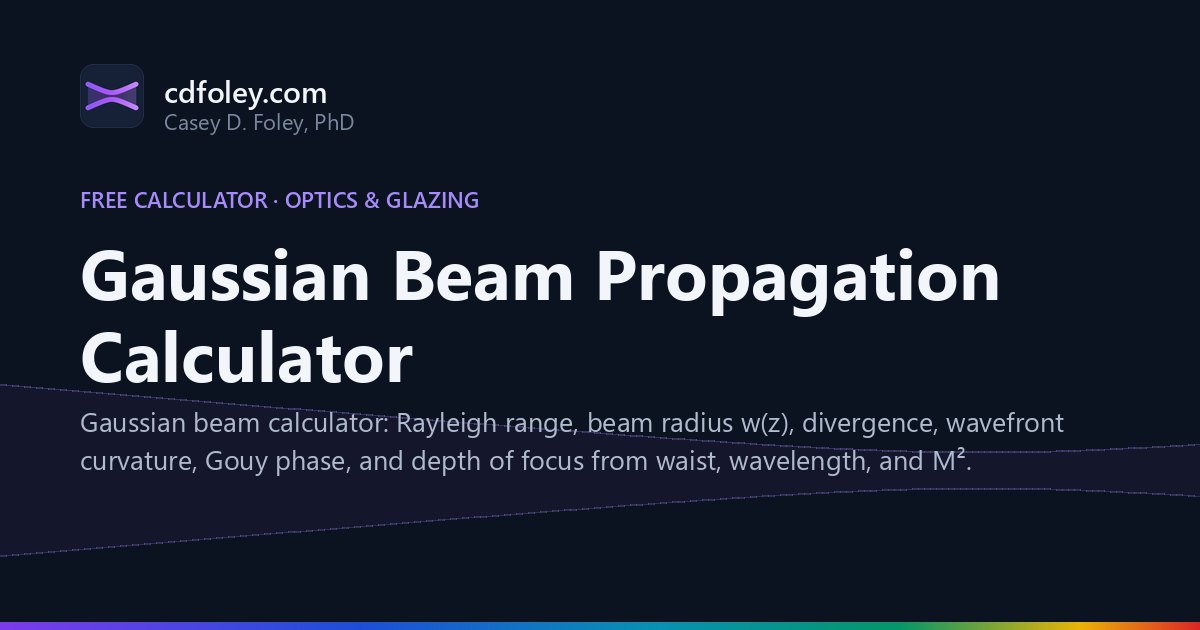
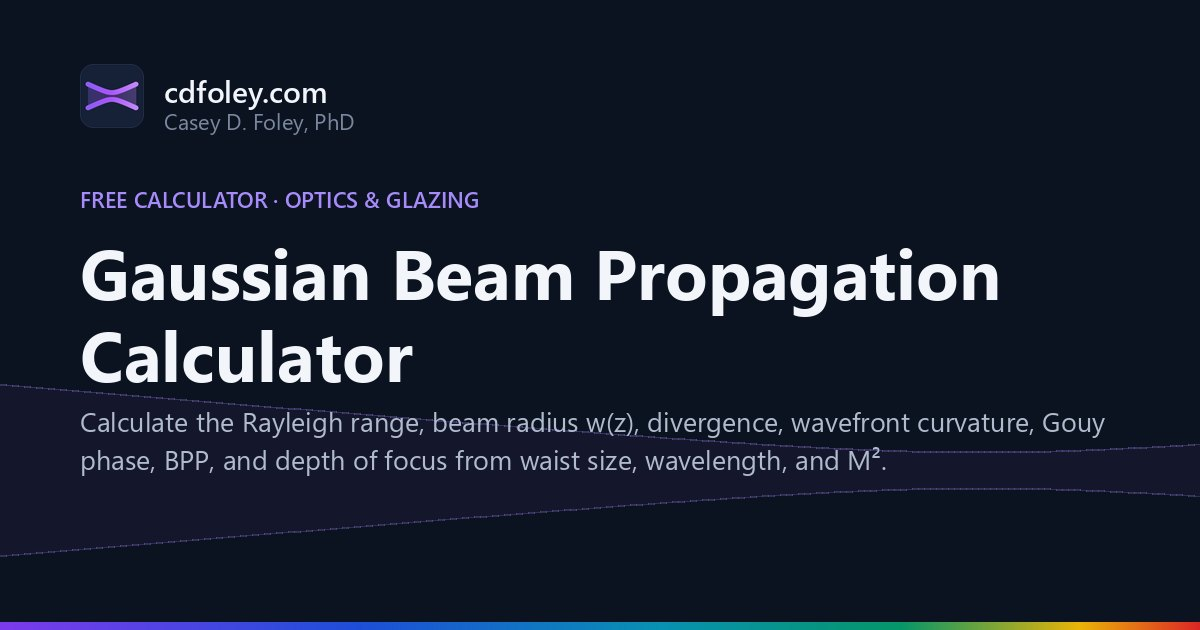
SEO and QA tooling: regenerate structured data, sitemap and share cards; flag unrendered math
seo.py: exclude beta pages, unescape entities in descriptions, richer Article/ProfilePage/VideoGame data.
resume_public.py: keep the seo.py-owned JSON-LD when rebuilding the public resume.
qa-pages.sh: report raw TeX left in a page (math that never rendered).

Claude-Session: https://claude.ai/code/session_01GorshBwyzHcofXTeHztGA6

Changed region(s): [[0.0617, 0.6635, 0.925, 0.754]]

diff --git a/_scripts/seo.py b/_scripts/seo.py
@@ -5,7 +5,8 @@
 1. Writes JSON-LD (WebApplication + BreadcrumbList) into every tool page and an
    ItemList into the tools and learn hubs, from the TOOLS/ARTICLES registries
    in assets/js/site.js.
-2. Regenerates sitemap.xml with lastmod dates from git (today for uncommitted edits).
+2. Regenerates sitemap.xml with lastmod dates from git (today for uncommitted edits). Private and tooling
+   folders, the unlisted beta/ section, and pages marked noindex are left out.
 3. Reports pages missing a title, description, canonical URL, or Open Graph tags.
 """
 import datetime, html, json, os, re, subprocess
@@ -36,7 +37,8 @@ for f in ['index.html', 'tools/index.html', 'learn/index.html']:
 
 def put_ld(path, data):
     s = open(path, encoding='utf-8').read()
-    block = '<script type="application/ld+json" id="ld-page">\n' + json.dumps(data, ensure_ascii=False, indent=1) + '\n</script>\n'
+    ld = json.dumps(data, ensure_ascii=False, indent=1).replace('</', '<\\/')    # text can never close the <script> early
+    block = '<script type="application/ld+json" id="ld-page">\n' + ld + '\n</script>\n'
     s, n = re.subn(r'<script type="application/ld\+json" id="ld-page">.*?</script>\n', lambda m: block, s, flags=re.S)
     if not n:
         s = s.replace('</head>', block + '</head>', 1)
@@ -44,22 +46,30 @@ def put_ld(path, data):
 
 def modified(f):
     """When a page's content last changed, as an ISO 8601 date-time with time zone (what Google expects).
-    Edits that only touch the date fields themselves are ignored, so re-running this script doesn't move the date."""
+    Edits that only touch the fields this script writes (dates, article image) are ignored, so re-running it doesn't move the date."""
     def real(diff):
-        return any(l[:1] in '+-' and not l.startswith(('+++', '---')) and not re.search(r'"date(Modified|Published)"', l)
+        return any(l[:1] in '+-' and not l.startswith(('+++', '---')) and not re.search(r'"(date(Modified|Published)|image)"', l)
                    for l in diff.splitlines())
     now = datetime.datetime.now().astimezone().isoformat(timespec='seconds')
-    if real(subprocess.run(['git', 'diff', 'HEAD', '-U0', '--', f], capture_output=True, text=True).stdout):
+    # A diff is the page's own UTF-8 text. With text=True, Windows decodes it as cp1252, which can't map some of its bytes
+    # (⁻ is E2 81 BB), and then .stdout comes back as None, so decode it as UTF-8.
+    if real(subprocess.run(['git', 'diff', 'HEAD', '-U0', '--', f], capture_output=True, encoding='utf-8', errors='replace').stdout):
         return now                                             # uncommitted content edits
     for line in subprocess.run(['git', 'log', '--format=%H %cI', '--', f], capture_output=True, text=True).stdout.splitlines():
         sha, when = line.split()
-        if real(subprocess.run(['git', 'show', '-U0', '--format=', sha, '--', f], capture_output=True, text=True).stdout):
+        if real(subprocess.run(['git', 'show', '-U0', '--format=', sha, '--', f], capture_output=True, encoding='utf-8', errors='replace').stdout):
             return when
     return now
 
+def created(f):
+    """When a page was first committed, as an ISO 8601 date-time with time zone (now, if it isn't committed yet)."""
+    added = subprocess.run(['git', 'log', '--diff-filter=A', '--format=%cI', '--', f], capture_output=True, text=True).stdout.split()
+    return added[-1] if added else datetime.datetime.now().astimezone().isoformat(timespec='seconds')
+
 def meta(s, name, attr='name'):
+    """A meta tag's content as plain text: JSON-LD is not HTML, so entities such as &#x27; must be decoded here."""
     m = re.search(r'<meta ' + attr + r'="' + re.escape(name) + r'" content="([^"]*)"', s)
-    return m.group(1) if m else ''
+    return html.unescape(m.group(1)) if m else ''
 
 def crumbs(items):
     return {'@type': 'BreadcrumbList', 'itemListElement': [
@@ -94,14 +104,15 @@ put_ld('learn/index.html', {'@context': 'https://schema.org', '@type': 'Collecti
 hub = open('games/index.html', encoding='utf-8').read()
 GENRE = {'pinball': 'Pinball', 'brick-breaker': 'Arcade', 'space-rocks': 'Shooter', 'paddle-ball': 'Sports', 'snake': 'Arcade',
          '2048': 'Puzzle', 'sudoku': 'Puzzle', 'minesweeper': 'Puzzle', 'solitaire': 'Card game', 'hangman': 'Word game'}
-GAMES = [dict(slug=m.group(1), title=m.group(2)) for m in re.finditer(
+PLAYMODE = {'paddle-ball': ['SinglePlayer', 'MultiPlayer']}     # vs. the computer, or two players on one device
+GAMES = [dict(slug=m.group(1), title=html.unescape(m.group(2))) for m in re.finditer(
     r'<a class="card tool-card game-card" href="/games/([^/]+)/">.*?<h3>(.*?)</h3>', hub, re.S)]
 for g in GAMES:
     path = 'games/%s/index.html' % g['slug']
     s = open(path, encoding='utf-8').read()
     put_ld(path, {'@context': 'https://schema.org', '@graph': [
         {'@type': 'VideoGame', 'name': g['title'], 'url': '%s/games/%s/' % (SITE, g['slug']), 'description': meta(s, 'description'),
-         'genre': GENRE.get(g['slug'], 'Casual'), 'gamePlatform': 'Web browser', 'playMode': 'SinglePlayer',
+         'genre': GENRE.get(g['slug'], 'Casual'), 'gamePlatform': 'Web browser', 'playMode': PLAYMODE.get(g['slug'], 'SinglePlayer'),
          'applicationCategory': 'GameApplication', 'operatingSystem': 'Any (web browser)', 'isAccessibleForFree': True,
          'offers': {'@type': 'Offer', 'price': '0', 'priceCurrency': 'USD'}, 'author': AUTHOR, 'publisher': AUTHOR},
         crumbs([('Games', '/games/'), (g['title'], '/games/%s/' % g['slug'])])]})
@@ -139,27 +150,39 @@ person = next(json.loads(b) for b in re.findall(r'<script type="application/ld\+
               if '"@type": "Person"' in b)
 person.pop('@context', None)
 put_ld('resume/index.html', {'@context': 'https://schema.org', '@type': 'ProfilePage', 'url': SITE + '/resume/',
-    'dateModified': modified('resume/index.html'), 'mainEntity': person})
+    'dateCreated': created('resume/index.html'), 'dateModified': modified('resume/index.html'), 'mainEntity': person})
 
-# Articles: Google wants full ISO 8601 date-times with a time zone, not bare dates
+# Articles: Google wants full ISO 8601 date-times with a time zone, not bare dates, and recommends an image
 for a in ARTICLES:
     f = 'learn/%s/index.html' % a['slug']
     if not os.path.exists(f): continue
     s = open(f, encoding='utf-8').read()
     t = re.sub(r'("datePublished": ?")(\d{4}-\d{2}-\d{2})(")', r'\g<1>\g<2>T09:00:00-04:00\3', s)
     t = re.sub(r'("dateModified": ?")[^"]*(")', lambda m: m.group(1) + modified(f) + m.group(2), t)
+    img = meta(t, 'og:image', 'property')                  # the article's own 1200 × 630 card from og_pages.py
+    if img and '"image"' not in t:                         # one line per key, or the whole block minified on one line
+        t = re.sub(r'(\n *)?"datePublished"', lambda m: '%s"image":%s%s,%s"datePublished"' % (
+            m.group(1) or '', ' ' if m.group(1) else '', json.dumps(img), m.group(1) or ''), t, count=1)
     if t != s: open(f, 'w', encoding='utf-8').write(t)
 formulas = open('formulas/index.html', encoding='utf-8').read()
 put_ld('formulas/index.html', {'@context': 'https://schema.org', '@type': 'CollectionPage', 'name': 'Formula reference',
     'url': SITE + '/formulas/', 'description': meta(formulas, 'description'), 'author': AUTHOR})
 print('JSON-LD: %d tools, %d games, %d publications, tools/learn/games hubs, resume, formulas' % (len(TOOLS), len(GAMES), len(PUBS)))
 
-# 2. Sitemap
-pages = ['index.html'] + sorted(
-    os.path.join(dp, 'index.html').replace('\\', '/').lstrip('./')
-    for dp, dn, fn in os.walk('.') if 'index.html' in fn and dp != '.'
-    and not re.match(r'\./(\.git|applications|_)', dp))
-dirty = set(subprocess.run(['git', 'status', '--porcelain'], capture_output=True, text=True).stdout.split())
+# 2. Sitemap: public pages only. Folders starting with . or _ (.git, .claude worktrees, _scripts), the private
+#    applications/ folder, and the unlisted beta/ section are pruned, and so is any page marked noindex.
+def indexable(f):
+    return not re.search(r'<meta name="robots" content="[^"]*noindex', open(f, encoding='utf-8').read(), re.I)
+pages = []
+for dp, dn, fn in os.walk('.'):
+    dn[:] = [d for d in dn if not d.startswith(('.', '_')) and not (dp == '.' and d in ('applications', 'beta'))]
+    if 'index.html' in fn and dp != '.':
+        pages.append(os.path.relpath(os.path.join(dp, 'index.html')).replace('\\', '/'))
+pages = ['index.html'] + sorted(f for f in pages if indexable(f))
+# Pages whose content differs from the last commit, plus new files. (git status would also flag a page that a tool only
+# rewrote, e.g. from LF to CRLF line endings, and give it a false lastmod.)
+dirty = set(subprocess.run(['git', 'diff', '--name-only', 'HEAD'], capture_output=True, text=True).stdout.split()
+            + subprocess.run(['git', 'ls-files', '--others', '--exclude-standard'], capture_output=True, text=True).stdout.split())
 today = datetime.date.today().isoformat()
 def lastmod(f):
     if f in dirty or any(f.startswith(d) for d in dirty if d.endswith('/')): return today

diff --git a/_scripts/resume_public.py b/_scripts/resume_public.py
@@ -6,6 +6,7 @@ The source, applications/resume-source.html, is git-ignored and holds every tail
 (elements tagged data-v="master mfg rd inspect"). This script copies it to resume/index.html with
 only the master version: every element whose data-v list lacks "master" is removed, and the
 version switch is fixed to master. Tailored text therefore never reaches the public site.
+The page's JSON-LD block (id="ld-page") is kept from the existing resume/index.html, where _scripts/seo.py writes it.
 Run by _scripts/build-resume.ps1; edit the source, not resume/index.html.
 """
 import os, re, sys
@@ -61,5 +62,12 @@ for pat, rep in fixes:
 leftover = [v for v in re.findall(r'data-v="([^"]*)"', out) if 'master' not in v.split()]
 if leftover:
     sys.exit('resume_public.py: non-master elements remain: %s' % leftover[:5])
+# The ProfilePage JSON-LD in resume/index.html belongs to _scripts/seo.py (dates from git, the Person from the
+# home page), so keep the block already there; the source's copy is only a fallback for a first build.
+LD = re.compile(r'<script type="application/ld\+json" id="ld-page">.*?</script>\n', re.S)
+if os.path.exists(OUT):
+    old = LD.search(open(OUT, encoding='utf-8').read())
+    if old:
+        out = LD.sub(lambda m: old.group(0), out, count=1)
 open(OUT, 'w', encoding='utf-8').write(out)
 print('resume/index.html: master version only (%d -> %d characters)' % (len(src), len(out)))

diff --git a/_scripts/og_pages.py b/_scripts/og_pages.py
@@ -101,10 +101,11 @@ def card(path, eyebrow, title, desc):
 
 def point_page_at(page, image_url, alt):
     s = open(page, encoding='utf-8').read()
-    s = re.sub(r'<meta property="og:image" content="[^"]*">', '<meta property="og:image" content="%s">' % image_url, s, count=1)
+    s = re.sub(r'<meta property="og:image" content="[^"]*">', lambda m: '<meta property="og:image" content="%s">' % image_url, s, count=1)
     a = '<meta property="og:image:alt" content="%s">' % html.escape(alt, quote=True)
-    if 'og:image:alt' in s: s = re.sub(r'<meta property="og:image:alt" content="[^"]*">', a, s, count=1)
-    else: s = re.sub(r'(<meta property="og:image:height"[^>]*>\n)', r'\1' + a.replace('\\', '\\\\') + '\n', s, count=1)
+    # Function replacements: a backslash in the alt text (e.g. \lambda) must not be read as a regex escape
+    if 'og:image:alt' in s: s = re.sub(r'<meta property="og:image:alt" content="[^"]*">', lambda m: a, s, count=1)
+    else: s = re.sub(r'(<meta property="og:image:height"[^>]*>\n)', lambda m: m.group(1) + a + '\n', s, count=1)
     open(page, 'w', encoding='utf-8').write(s)
 
 os.makedirs('assets/img/og', exist_ok=True)
